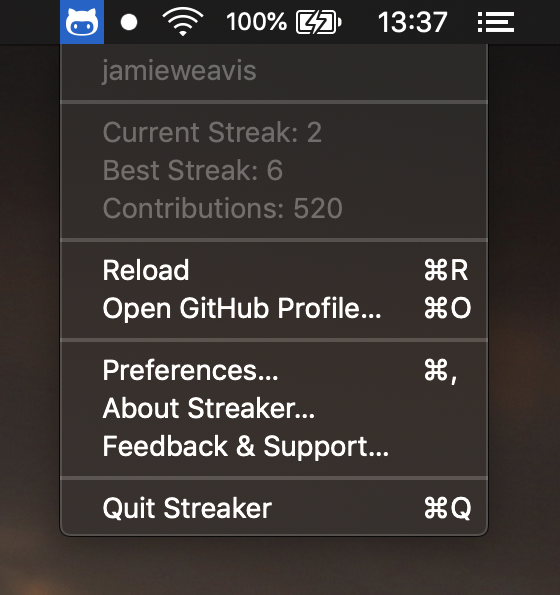
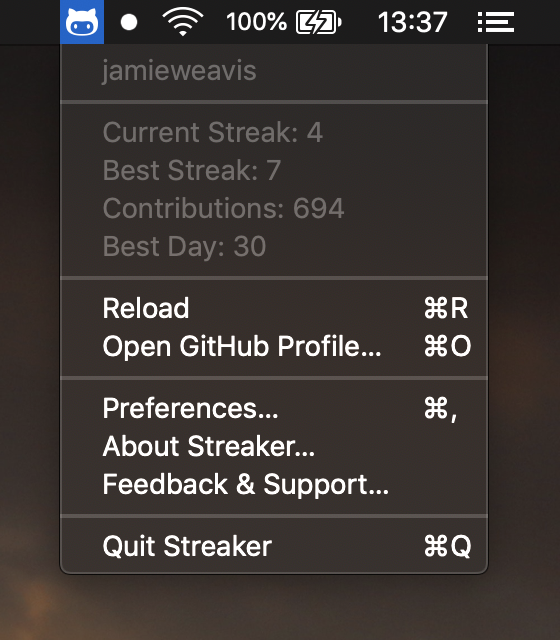
Upgrade to latest version of contribution and add best day menu item

diff --git a/src/app.js b/src/app.js
@@ -59,7 +59,12 @@ app.on('ready', () => {
     preferencesWindow.focus();
   }
 
-  function createTrayMenu(contributionCount, currentStreak, bestStreak) {
+  function createTrayMenu(
+    contributionCount,
+    currentStreak,
+    bestStreak,
+    bestDay,
+  ) {
     const username = store.get('username') || 'Username not set';
     const githubProfileUrl = `https://github.com/${username}`;
     const menuTemplate = [
@@ -68,6 +73,7 @@ app.on('ready', () => {
       { label: `Current Streak: ${currentStreak}`, enabled: false },
       { label: `Best Streak: ${bestStreak}`, enabled: false },
       { label: `Contributions: ${contributionCount}`, enabled: false },
+      { label: `Best Day: ${bestDay}`, enabled: false },
       { type: 'separator' },
       {
         label: 'Reload',
@@ -107,13 +113,13 @@ app.on('ready', () => {
     const username = store.get('username');
     if (!username) {
       tray.setImage(icon.fail);
-      tray.setContextMenu(createTrayMenu(0, 0, 0));
+      tray.setContextMenu(createTrayMenu(0, 0, 0, 0));
       return;
     }
 
     tray.setImage(icon.load);
     tray.setContextMenu(
-      createTrayMenu('Loading...', 'Loading...', 'Loading...'),
+      createTrayMenu('Loading...', 'Loading...', 'Loading...', 'Loading...'),
     );
 
     setTimeout(requestContributionData, 1000 * 60 * store.get('syncInterval')); // `syncInterval` minutes
@@ -125,12 +131,13 @@ app.on('ready', () => {
             data.contributions,
             data.currentStreak,
             data.bestStreak,
+            data.bestDay,
           ),
         );
         tray.setImage(data.currentStreak > 0 ? icon.done : icon.todo);
       })
       .catch(() => {
-        tray.setContextMenu(createTrayMenu('Error', 'Error', 'Error'));
+        tray.setContextMenu(createTrayMenu('Error', 'Error', 'Error', 'Error'));
         tray.setImage(icon.fail);
       });
   }
@@ -201,7 +208,7 @@ app.on('ready', () => {
   }
 
   process.on('uncaughtException', () => {
-    tray.setContextMenu(createTrayMenu('Error', 'Error', 'Error'));
+    tray.setContextMenu(createTrayMenu('Error', 'Error', 'Error', 'Error'));
     tray.setImage(icon.fail);
   });
 

diff --git a/README.md b/README.md
@@ -14,7 +14,7 @@ Download the latest version of Streaker from the the **[GitHub releases](https:/
 
 ## Features
 
-- Current streak, best streak & total contribution stats
+- Current streak, best streak, total contribution & best day stats
 - Launch at login
 - Notification when you haven't commited today
 
